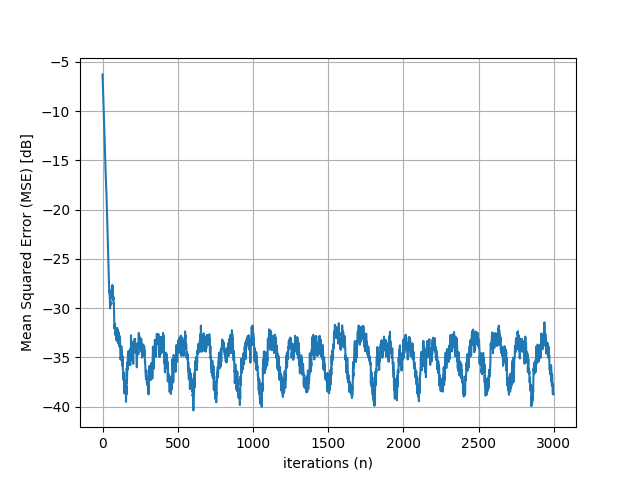
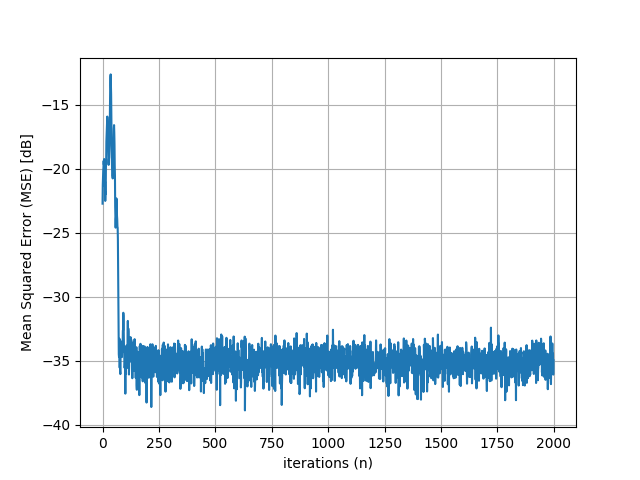
Linear Kernel ready, and adding a nonlinearity to the algorithm

diff --git a/KLMS.py b/KLMS.py
@@ -2,73 +2,73 @@ import numpy as np
 import math 
 import matplotlib.pyplot as plt
 import random as rand
-import kernel_methods as kernel 
+import kernel_methods as kernel #Oi patrick, vc deixou seu PC aberto, apaguei metade do seu codigo, bj.
 
-N = 3000 #numero de iteracoes
-R = 100 #numero de realizacoes
-mu = 1*10**(-3)#step-size
+N = 200000 #numero de iteracoes
+R = 10 #numero de realizacoes
+mu = 5*10**(-1)#step-size
 
-w1 = np.array([ [-0.0098],   [-0.0143],   [-0.0251],   [-0.0399],   [-0.0518],   [-0.0619],   [-0.0709],  [-0.0781],   [-0.0834],   [-0.0869],   [-0.0886],   [-0.0886],   [-0.0869],   [-0.0836], [-0.0789],   [-0.0729],   [-0.0657],   [-0.0576],   [-0.0488],   [-0.0394],   [-0.0297], [-0.0198],  [-0.0100],   [-0.0004],    [0.0088],    [0.0175],    [0.0254],    [0.0325], [0.0387],   [0.0439],    [0.0480],    [0.0510],    [0.0530],    [0.0538],    [0.0536], [0.0524],   [0.0503],   [0.0473],    [0.0435],    [0.0391],    [0.0341],    [0.0287], [0.0230],   [0.0172],   [ 0.0112],    [0.0053],   [-0.0004],  [-0.0059],   [-0.0110], [-0.0157],  [-0.0199],   [-0.0236],   [-0.0266],  [-0.0290],   [-0.0307],   [-0.0318], [-0.0322],  [-0.0320],  [-0.0312],   [-0.0299],   [-0.0280],   [-0.0257],   [-0.0231], [-0.0201],  [-0.0168],   [-0.0134],   [-0.0099],   [-0.0064],   [-0.0029],    [0.0005], [0.0037],   [0.0067],   [ 0.0095],    [0.0119],    [0.0140],    [0.0158],    [0.0171], [0.0181],   [0.0187],   [ 0.0190],    [0.0188],   [0.0183],    [0.0175 ],   [0.0164], [0.0150],   [0.0135],   [ 0.0117],   [ 0.0098],   [ 0.0078],   [0.0058],    [0.0037], [0.0017],   [-0.0003], [-0.0022],   [-0.0039],   [-0.0055],   [-0.0069],   [-0.0081], [-0.0091],  [-0.0099],  [-0.0105],   [-0.0108],   [-0.0109],   [-0.0109],   [-0.0106], [-0.0101],  [-0.0095], [-0.0087],   [-0.0078],   [-0.0068],   [-0.0057],   [-0.0045], [0.0034],  [-0.0022],  [-0.0010],   [ 0.0001],    [0.0012],   [0.0022],    [0.0031], [0.0039],   [0.0046],   [0.0051],   [ 0.0056],   [0.0059],    [0.0061],    [0.0062], [0.0062],   [0.0060],   [0.0057],   [ 0.0054],    [0.0049],    [0.0044],   [0.0039],[0.0033],   [0.0026],   [0.0020],    [0.0013],    [0.0007],    [0.0000],   [-0.0006], [-0.0011],  [-0.0016], [-0.0021],   [-0.0025],   [-0.0028],  [-0.0031],  [-0.0033], [-0.0034],  [-0.0034],  [-0.0034]])
-#w1 = np.array([[1], [2], [3]]) #just for test
+#w0 = np.array([ [-0.0098],   [-0.0143],   [-0.0251],   [-0.0399],   [-0.0518],   [-0.0619],   [-0.0709],  [-0.0781],   [-0.0834],   [-0.0869],   [-0.0886],   [-0.0886],   [-0.0869],   [-0.0836], [-0.0789],   [-0.0729],   [-0.0657],   [-0.0576],   [-0.0488],   [-0.0394],   [-0.0297], [-0.0198],  [-0.0100],   [-0.0004],    [0.0088],    [0.0175],    [0.0254],    [0.0325], [0.0387],   [0.0439],    [0.0480],    [0.0510],    [0.0530],    [0.0538],    [0.0536], [0.0524],   [0.0503],   [0.0473],    [0.0435],    [0.0391],    [0.0341],    [0.0287], [0.0230],   [0.0172],   [ 0.0112],    [0.0053],   [-0.0004],  [-0.0059],   [-0.0110], [-0.0157],  [-0.0199],   [-0.0236],   [-0.0266],  [-0.0290],   [-0.0307],   [-0.0318], [-0.0322],  [-0.0320],  [-0.0312],   [-0.0299],   [-0.0280],   [-0.0257],   [-0.0231], [-0.0201],  [-0.0168],   [-0.0134],   [-0.0099],   [-0.0064],   [-0.0029],    [0.0005], [0.0037],   [0.0067],   [ 0.0095],    [0.0119],    [0.0140],    [0.0158],    [0.0171], [0.0181],   [0.0187],   [ 0.0190],    [0.0188],   [0.0183],    [0.0175 ],   [0.0164], [0.0150],   [0.0135],   [ 0.0117],   [ 0.0098],   [ 0.0078],   [0.0058],    [0.0037], [0.0017],   [-0.0003], [-0.0022],   [-0.0039],   [-0.0055],   [-0.0069],   [-0.0081], [-0.0091],  [-0.0099],  [-0.0105],   [-0.0108],   [-0.0109],   [-0.0109],   [-0.0106], [-0.0101],  [-0.0095], [-0.0087],   [-0.0078],   [-0.0068],   [-0.0057],   [-0.0045], [0.0034],  [-0.0022],  [-0.0010],   [ 0.0001],    [0.0012],   [0.0022],    [0.0031], [0.0039],   [0.0046],   [0.0051],   [ 0.0056],   [0.0059],    [0.0061],    [0.0062], [0.0062],   [0.0060],   [0.0057],   [ 0.0054],    [0.0049],    [0.0044],   [0.0039],[0.0033],   [0.0026],   [0.0020],    [0.0013],    [0.0007],    [0.0000],   [-0.0006], [-0.0011],  [-0.0016], [-0.0021],   [-0.0025],   [-0.0028],  [-0.0031],  [-0.0033], [-0.0034],  [-0.0034],  [-0.0034]])
+w0 = np.array([[1], [-2], [3]]) #just for test
 #Diferente do codigo em matlab, aqui o w0 ja eh gerado como matriz coluna
 
 sigma_z = 1*10**(-3) #desvio padrao do ruido
-sigma_x = 1.0*10**(-1) #desvio padrão do sinal de entrada
+sigma_x = 1.0*10**(-0) #desvio padrão do sinal de entrada
 
 #Algoritmo adaptativo	
+p = len(w0)
 mse = np.zeros((N,1))
-Ew = np.zeros((len(w1), N))
+Ew = np.zeros((p, N))
+res = np.zeros((N))
 
-sigma = 0.5
+sigma = 0.5 #para o kernel Gaussiano
 
-v = 0
 aux = False
 
-u = np.zeros((len(w1),1))
-dictionary = np.zeros((len(w1),len(w1)))
-vet_input = np.zeros((len(w1), 1))
-coefficient_e = np.zeros((N))
+u = np.zeros((p,1))
+dictionary = np.zeros((p,p))
+
 
 for r in range(1,R):
 	e = np.zeros((N, 1))
-	w = np.zeros((len(w1), N))
-	
-	for i in range (0, len(w1)):
-		for j in range (0, len(w1)):
+	w = np.zeros((p, N))
+	for i in range (0, p):
+		for j in range (0, p):
 			dictionary[i,j] = sigma_x * np.random.rand()
-
 	if (aux == False):
-		for i in range (0, len(w1)):
-			vet_input[i] = sigma_x * np.random.rand()
-		
+		for i in range (0, p):
+			u[i] = sigma_x * np.random.rand()
 		aux = True
-	
 	for i in range(0, N-1):
-		vet_input[v] = sigma_x * np.random.rand()
-		u[v]  = kernel.Gaussian_K(dictionary[:, v], vet_input[v], sigma) 
-		d = np.dot( u.T, w1) + np.sqrt(sigma_z)*np.random.rand() #d esta saindo escalar
-		e[i] = d - np.dot(w[:,i],u)  # 'e' is shaped as (N, 1)
-		
-		if (v+1>=len(w1)):
-			w[:,i+1] = w[:,i] +  u[:,0] * e[i]  * mu
-			coefficient_e[i] = np.linalg.norm(w1[:] - w[:,i])/w1[v]
-			v = 0
-		elif (v<len(w1)):
-			w[:,i+1] = w[:,i] +  u[:,0] * e[i]  * mu
-			coefficient_e[i] = np.linalg.norm(w1[:] - w[:,i])/w1[v]
+		u = np.delete(u,p-1,axis=0)
+		aux3 = np.random.rand()*sigma_x
+		u = np.insert(u, 0, aux3, axis=0)
+		for v in range(0,p-1):
+			u[0] = kernel.Gaussian_K(dictionary[:, v], u[:], sigma)
 
-			v=v+1
+		d = np.dot( u.T, w0) + np.sqrt(sigma_z)*np.random.rand() #d esta saindo escalar
+		e[i] = d - np.dot(w[:,i].T,u)  # 'e' is shaped as (N, 1)
+		w[:,i+1] = w[:,i] +  u.T * e[i]  * mu
+
+		
+
+		print ("[{}]: {}".format(r,i)) 
+
 	mse = e[:]**2 + mse
-	Ew = w[:,range(0,N)] + Ew #w is shaped as (len(w0), 1)
+	Ew = w[:,range(0,N)] + Ew #w is shaped as (p, 1)
+	
+
+
 MSE = mse/R
 Ew = Ew/R
 
 
-print(coefficient_e)
+for i in range(0,N):
+	res[i] = np.linalg.norm(Ew[:, i] - w0.T)
 
 #Gera os graficos
 #MSE = MSE.reshape(N)
-plt.plot(coefficient_e)
+plt.plot(res)
 plt.xlabel('iterations(n)')
 plt.ylabel('Relative error')
 plt.grid(True)
@@ -81,8 +81,8 @@ plt.xlabel('iterations (n)')
 plt.grid(True)
 plt.figure()
 
-for i in range (len(w1)):
-	plt.plot ( Ew[i,:])
+for i in range (len(w0)):
+	plt.plot (Ew[i,:])
 plt.ylabel('E\{\bf w}\}')
 plt.xlabel('iterations (n)')
 plt.grid(True)

diff --git a/KNLMS.py b/KNLMS.py
@@ -8,8 +8,8 @@ N = 40000 #numero de iteracoes
 R = 300 #numero de realizacoes
 mu = 5*10**(-3)#step-size
 
-w1 = np.array([[-0.0098],   [-0.0143],   [-0.0251],   [-0.0399],   [-0.0518],   [-0.0619],   [-0.0709],  [-0.0781],   [-0.0834],   [-0.0869],   [-0.0886],   [-0.0886],   [-0.0869],   [-0.0836], [-0.0789],   [-0.0729],   [-0.0657],   [-0.0576],   [-0.0488],   [-0.0394],   [-0.0297], [-0.0198],  [-0.0100],   [-0.0004],    [0.0088],    [0.0175],    [0.0254],    [0.0325], [0.0387],   [0.0439],    [0.0480],    [0.0510],    [0.0530],    [0.0538],    [0.0536], [0.0524],   [0.0503],   [0.0473],    [0.0435],    [0.0391],    [0.0341],    [0.0287], [0.0230],   [0.0172],   [ 0.0112],    [0.0053],   [-0.0004],  [-0.0059],   [-0.0110], [-0.0157],  [-0.0199],   [-0.0236],   [-0.0266],  [-0.0290],   [-0.0307],   [-0.0318], [-0.0322],  [-0.0320],  [-0.0312],   [-0.0299],   [-0.0280],   [-0.0257],   [-0.0231], [-0.0201],  [-0.0168],   [-0.0134],   [-0.0099],   [-0.0064],   [-0.0029],    [0.0005], [0.0037],   [0.0067],   [ 0.0095],    [0.0119],    [0.0140],    [0.0158],    [0.0171], [0.0181],   [0.0187],   [ 0.0190],    [0.0188],   [0.0183],    [0.0175 ],   [0.0164], [0.0150],   [0.0135],   [ 0.0117],   [ 0.0098],   [ 0.0078],   [0.0058],    [0.0037], [0.0017],   [-0.0003], [-0.0022],   [-0.0039],   [-0.0055],   [-0.0069],   [-0.0081], [-0.0091],  [-0.0099],  [-0.0105],   [-0.0108],   [-0.0109],   [-0.0109],   [-0.0106], [-0.0101],  [-0.0095], [-0.0087],   [-0.0078],   [-0.0068],   [-0.0057],   [-0.0045], [0.0034],  [-0.0022],  [-0.0010],   [ 0.0001],    [0.0012],   [0.0022],    [0.0031], [0.0039],   [0.0046],   [0.0051],   [ 0.0056],   [0.0059],    [0.0061],    [0.0062], [0.0062],   [0.0060],   [0.0057],   [ 0.0054],    [0.0049],    [0.0044],   [0.0039],[0.0033],   [0.0026],   [0.0020],    [0.0013],    [0.0007],    [0.0000],   [-0.0006], [-0.0011],  [-0.0016], [-0.0021],   [-0.0025],   [-0.0028],  [-0.0031],  [-0.0033], [-0.0034],  [-0.0034],  [-0.0034]])
-#w1 = np.array([[1], [2], [3]]) #just for test
+w0 = np.array([[-0.0098],   [-0.0143],   [-0.0251],   [-0.0399],   [-0.0518],   [-0.0619],   [-0.0709],  [-0.0781],   [-0.0834],   [-0.0869],   [-0.0886],   [-0.0886],   [-0.0869],   [-0.0836], [-0.0789],   [-0.0729],   [-0.0657],   [-0.0576],   [-0.0488],   [-0.0394],   [-0.0297], [-0.0198],  [-0.0100],   [-0.0004],    [0.0088],    [0.0175],    [0.0254],    [0.0325], [0.0387],   [0.0439],    [0.0480],    [0.0510],    [0.0530],    [0.0538],    [0.0536], [0.0524],   [0.0503],   [0.0473],    [0.0435],    [0.0391],    [0.0341],    [0.0287], [0.0230],   [0.0172],   [ 0.0112],    [0.0053],   [-0.0004],  [-0.0059],   [-0.0110], [-0.0157],  [-0.0199],   [-0.0236],   [-0.0266],  [-0.0290],   [-0.0307],   [-0.0318], [-0.0322],  [-0.0320],  [-0.0312],   [-0.0299],   [-0.0280],   [-0.0257],   [-0.0231], [-0.0201],  [-0.0168],   [-0.0134],   [-0.0099],   [-0.0064],   [-0.0029],    [0.0005], [0.0037],   [0.0067],   [ 0.0095],    [0.0119],    [0.0140],    [0.0158],    [0.0171], [0.0181],   [0.0187],   [ 0.0190],    [0.0188],   [0.0183],    [0.0175 ],   [0.0164], [0.0150],   [0.0135],   [ 0.0117],   [ 0.0098],   [ 0.0078],   [0.0058],    [0.0037], [0.0017],   [-0.0003], [-0.0022],   [-0.0039],   [-0.0055],   [-0.0069],   [-0.0081], [-0.0091],  [-0.0099],  [-0.0105],   [-0.0108],   [-0.0109],   [-0.0109],   [-0.0106], [-0.0101],  [-0.0095], [-0.0087],   [-0.0078],   [-0.0068],   [-0.0057],   [-0.0045], [0.0034],  [-0.0022],  [-0.0010],   [ 0.0001],    [0.0012],   [0.0022],    [0.0031], [0.0039],   [0.0046],   [0.0051],   [ 0.0056],   [0.0059],    [0.0061],    [0.0062], [0.0062],   [0.0060],   [0.0057],   [ 0.0054],    [0.0049],    [0.0044],   [0.0039],[0.0033],   [0.0026],   [0.0020],    [0.0013],    [0.0007],    [0.0000],   [-0.0006], [-0.0011],  [-0.0016], [-0.0021],   [-0.0025],   [-0.0028],  [-0.0031],  [-0.0033], [-0.0034],  [-0.0034],  [-0.0034]])
+#w0 = np.array([[1], [2], [3]]) #just for test
 #Diferente do codigo em matlab, aqui o w0 ja eh gerado como matriz coluna
 
 
@@ -18,29 +18,29 @@ sigma_x = 1.0 #	desvio padrão do sinal de entrada
 
 #Algoritmo adaptativo
 mse = np.zeros((N,1))
-Ew = np.zeros((len(w1), N))
+Ew = np.zeros((len(w0), N))
 
 sigma = 0.5
 
 v = 0
 aux = False
 
-u = np.zeros((len(w1),1))
-dictionary = np.zeros((len(w1),len(w1)))
-vet_input = np.zeros((len(w1), 1))
+u = np.zeros((len(w0),1))
+dictionary = np.zeros((len(w0),len(w0)))
+vet_input = np.zeros((len(w0), 1))
 
 for r in range(1,R):
 	e = np.zeros((N, 1))
-	w = np.zeros((len(w1), N))
+	w = np.zeros((len(w0), N))
 	
-	for i in range (0, len(w1)):
-		for j in range (0, len(w1)):
+	for i in range (0, len(w0)):
+		for j in range (0, len(w0)):
 			dictionary[i,j] = sigma_x * np.random.rand()
 	
 	
 
 	if (aux == False):
-		for i in range (0, len(w1)):
+		for i in range (0, len(w0)):
 			vet_input[i] = sigma_x * np.random.rand()
 		
 		aux = True
@@ -48,7 +48,7 @@ for r in range(1,R):
 	for i in range(0, N-1):
 		vet_input[v] = sigma_x * np.random.rand()
 		u[v]  = kernel.Gaussian_K(dictionary[:, v], vet_input[v], sigma) 
-		d = np.dot( u.T, w1) + np.sqrt(sigma_z)*np.random.rand() #d esta saindo escalar
+		d = np.dot( u.T, w0) + np.sqrt(sigma_z)*np.random.rand() #d esta saindo escalar
 		e[i] = d - np.dot(w[:,i],u)  # 'e' is shaped as (2000, 1)
 		
 		if (v+1>=len(u)):
@@ -73,7 +73,7 @@ plt.xlabel('iterations (n)')
 plt.grid(True)
 plt.figure()
 
-for i in range (len(w1)):
+for i in range (len(w0)):
 	plt.plot ( Ew[i,:])
 plt.ylabel('E\{\bf w}\}')
 plt.xlabel('iterations (n)')

diff --git a/LMS.py b/LMS.py
@@ -3,56 +3,64 @@ import math
 import matplotlib.pyplot as plt
 import random as rand
 
-N = 10000 #numero de iteracoes
-R = 10 #numero de realizacoes
-mu = 0.1*10**(-2) #step-size
+N = 200000 #numero de iteracoes
+R = 100 #numero de realizacoes
+mu =5*10**(-2) #step-size
 
+#w0 = np.array([[1],[-2],[3]])
 w0 = np.array([[-0.0098],   [-0.0143],   [-0.0251],   [-0.0399],   [-0.0518],   [-0.0619],   [-0.0709],  [-0.0781],   [-0.0834],   [-0.0869],   [-0.0886],   [-0.0886],   [-0.0869],   [-0.0836], [-0.0789],   [-0.0729],   [-0.0657],   [-0.0576],   [-0.0488],   [-0.0394],   [-0.0297], [-0.0198],  [-0.0100],   [-0.0004],    [0.0088],    [0.0175],    [0.0254],    [0.0325], [0.0387],   [0.0439],    [0.0480],    [0.0510],    [0.0530],    [0.0538],    [0.0536], [0.0524],   [0.0503],   [0.0473],    [0.0435],    [0.0391],    [0.0341],    [0.0287], [0.0230],   [0.0172],   [ 0.0112],    [0.0053],   [-0.0004],  [-0.0059],   [-0.0110], [-0.0157],  [-0.0199],   [-0.0236],   [-0.0266],  [-0.0290],   [-0.0307],   [-0.0318], [-0.0322],  [-0.0320],  [-0.0312],   [-0.0299],   [-0.0280],   [-0.0257],   [-0.0231], [-0.0201],  [-0.0168],   [-0.0134],   [-0.0099],   [-0.0064],   [-0.0029],    [0.0005], [0.0037],   [0.0067],   [ 0.0095],    [0.0119],    [0.0140],    [0.0158],    [0.0171], [0.0181],   [0.0187],   [ 0.0190],    [0.0188],   [0.0183],    [0.0175 ],   [0.0164], [0.0150],   [0.0135],   [ 0.0117],   [ 0.0098],   [ 0.0078],   [0.0058],    [0.0037], [0.0017],   [-0.0003], [-0.0022],   [-0.0039],   [-0.0055],   [-0.0069],   [-0.0081], [-0.0091],  [-0.0099],  [-0.0105],   [-0.0108],   [-0.0109],   [-0.0109],   [-0.0106], [-0.0101],  [-0.0095], [-0.0087],   [-0.0078],   [-0.0068],   [-0.0057],   [-0.0045], [0.0034],  [-0.0022],  [-0.0010],   [ 0.0001],    [0.0012],   [0.0022],    [0.0031], [0.0039],   [0.0046],   [0.0051],   [ 0.0056],   [0.0059],    [0.0061],    [0.0062], [0.0062],   [0.0060],   [0.0057],   [ 0.0054],    [0.0049],    [0.0044],   [0.0039],[0.0033],   [0.0026],   [0.0020],    [0.0013],    [0.0007],    [0.0000],   [-0.0006], [-0.0011],  [-0.0016], [-0.0021],   [-0.0025],   [-0.0028],  [-0.0031],  [-0.0033], [-0.0034],  [-0.0034],  [-0.0034]])
 #w0 =  np.array([[ 1],[-2], [-0.1], [0.2], [math.pi], [math.exp(-2.6)], [-math.sqrt(3)]])
 #Diferente do codigo em matlab, aqui o w0 ja eh gerado como matriz coluna
 
 #Estatistica do sinal de entrada
-sigma_z = 1*10**(-3) #desvio padrao do ruido
-sigma_x = 1.0 #desvio padrao do sinal de entrada
+sigma_z = 1.0*10**(-3) #desvio padrao do ruido
+sigma_x = 1.0*10**(-1) #desvio padrao do sinal de entrada
 
 #algoritmo adaptativo
+p = len(w0)
 mse = np.zeros((N,1))
-Ew = np.zeros((len(w0), N))
+Ew = np.zeros((p, N))
+res = np.zeros((N))
 
 verf = False
+v = 0
+
 for r in range(1,R):
 	e = np.zeros((N, 1))
-	x = np.zeros((len(w0),1))
-	w = np.zeros((len(w0), N))
+	w = np.zeros((p, N))
+	u = np.zeros((p,1))
 	if (verf == False):
-		for i in range(0,len(w0)):
-			x[i] = sigma_x * np.random.rand()
+		for i in range(0,p):
+			u[i] = sigma_x * np.random.rand()
 		verf = True
-	v = 0
 	for i in range(0, N-1):
-		if (v+1>=len(w0)):
-			x[v] = sigma_x * np.random.rand() 
-		elif (v<len(w0)):
-			x[v] = sigma_x * np.random.rand()
-		
-		d = np.dot( x.T, w0) + sigma_z*np.random.rand() #d esta saindo escalar
-		
-		e[i] = d - np.dot(w[:,i],x)  # 'e' is shaped as (2000, 1)
+		u = np.delete(u,p-1,axis=0)
+		aux = np.random.rand()*sigma_x
+		u = np.insert(u,0,aux, axis=0)
+		d = np.dot( u.T, w0) + sigma_z*np.random.rand() #d esta saindo escalar
+		e[i] = d - np.dot(w[:,i].T,u)  # 'e' is shaped as (2000, 1)
+		w[:,i+1] = w[:,i] + u.T * e[i] *  mu
 
-		if (v+1>=len(w0)):
-			w[:,i+1] = w[:,i] + e[i] * x[:,0] * mu
-			v = 0
-		elif (v<len(w0)):
-			w[:,i+1] = w[:,i] + e[i] * x[:,0] * mu
-			v=v+1
-
+	
 	mse = e[:]**2 + mse
 	Ew = w[:,range(0,N)] + Ew #w is shaped as (len(w0), 1)
 
-MSE = mse/r
-Ew = Ew/r
+MSE = mse/R
+Ew = Ew/R
+
+
+
+for i in range(0,N):
+	res[i] = np.linalg.norm(Ew[:, i] - w0.T)
+
 
 #Gerar graficos
+
+plt.plot(res)
+plt.xlabel('iterations(n)')
+plt.ylabel('Relative error')
+plt.grid(True)
+plt.figure()
 
 MSE = MSE.reshape(N)
 MSE=10*np.log10(MSE)
@@ -65,6 +73,7 @@ plt.figure()
 for i in range (len(w0)):
 	plt.plot ( Ew[i,:])
 plt.ylabel('E\{{\bf w}\} LMS')
+
 plt.xlabel('iterations (n)')
 plt.legend(loc="upper left")
 plt.grid(True)

diff --git a/NLMS.py b/NLMS.py
@@ -9,11 +9,11 @@ mu = 0.1*10**(-2)#step-size
 
 w3 = np.array ([[0.9], [0.2], [0.5], [-0.7]])
 w2 = np.array ([[0.001], [0.01], [0.1], [0.5]])
-w1 = np.array([[-0.0098],   [-0.0143],   [-0.0251],   [-0.0399],   [-0.0518],   [-0.0619],   [-0.0709],  [-0.0781],   [-0.0834],   [-0.0869],   [-0.0886],   [-0.0886],   [-0.0869],   [-0.0836], [-0.0789],   [-0.0729],   [-0.0657],   [-0.0576],   [-0.0488],   [-0.0394],   [-0.0297], [-0.0198],  [-0.0100],   [-0.0004],    [0.0088],    [0.0175],    [0.0254],    [0.0325], [0.0387],   [0.0439],    [0.0480],    [0.0510],    [0.0530],    [0.0538],    [0.0536], [0.0524],   [0.0503],   [0.0473],    [0.0435],    [0.0391],    [0.0341],    [0.0287], [0.0230],   [0.0172],   [ 0.0112],    [0.0053],   [-0.0004],  [-0.0059],   [-0.0110], [-0.0157],  [-0.0199],   [-0.0236],   [-0.0266],  [-0.0290],   [-0.0307],   [-0.0318], [-0.0322],  [-0.0320],  [-0.0312],   [-0.0299],   [-0.0280],   [-0.0257],   [-0.0231], [-0.0201],  [-0.0168],   [-0.0134],   [-0.0099],   [-0.0064],   [-0.0029],    [0.0005], [0.0037],   [0.0067],   [ 0.0095],    [0.0119],    [0.0140],    [0.0158],    [0.0171], [0.0181],   [0.0187],   [ 0.0190],    [0.0188],   [0.0183],    [0.0175 ],   [0.0164], [0.0150],   [0.0135],   [ 0.0117],   [ 0.0098],   [ 0.0078],   [0.0058],    [0.0037], [0.0017],   [-0.0003], [-0.0022],   [-0.0039],   [-0.0055],   [-0.0069],   [-0.0081], [-0.0091],  [-0.0099],  [-0.0105],   [-0.0108],   [-0.0109],   [-0.0109],   [-0.0106], [-0.0101],  [-0.0095], [-0.0087],   [-0.0078],   [-0.0068],   [-0.0057],   [-0.0045], [0.0034],  [-0.0022],  [-0.0010],   [ 0.0001],    [0.0012],   [0.0022],    [0.0031], [0.0039],   [0.0046],   [0.0051],   [ 0.0056],   [0.0059],    [0.0061],    [0.0062], [0.0062],   [0.0060],   [0.0057],   [ 0.0054],    [0.0049],    [0.0044],   [0.0039],[0.0033],   [0.0026],   [0.0020],    [0.0013],    [0.0007],    [0.0000],   [-0.0006], [-0.0011],  [-0.0016], [-0.0021],   [-0.0025],   [-0.0028],  [-0.0031],  [-0.0033], [-0.0034],  [-0.0034],  [-0.0034]])
+w0 = np.array([[-0.0098],   [-0.0143],   [-0.0251],   [-0.0399],   [-0.0518],   [-0.0619],   [-0.0709],  [-0.0781],   [-0.0834],   [-0.0869],   [-0.0886],   [-0.0886],   [-0.0869],   [-0.0836], [-0.0789],   [-0.0729],   [-0.0657],   [-0.0576],   [-0.0488],   [-0.0394],   [-0.0297], [-0.0198],  [-0.0100],   [-0.0004],    [0.0088],    [0.0175],    [0.0254],    [0.0325], [0.0387],   [0.0439],    [0.0480],    [0.0510],    [0.0530],    [0.0538],    [0.0536], [0.0524],   [0.0503],   [0.0473],    [0.0435],    [0.0391],    [0.0341],    [0.0287], [0.0230],   [0.0172],   [ 0.0112],    [0.0053],   [-0.0004],  [-0.0059],   [-0.0110], [-0.0157],  [-0.0199],   [-0.0236],   [-0.0266],  [-0.0290],   [-0.0307],   [-0.0318], [-0.0322],  [-0.0320],  [-0.0312],   [-0.0299],   [-0.0280],   [-0.0257],   [-0.0231], [-0.0201],  [-0.0168],   [-0.0134],   [-0.0099],   [-0.0064],   [-0.0029],    [0.0005], [0.0037],   [0.0067],   [ 0.0095],    [0.0119],    [0.0140],    [0.0158],    [0.0171], [0.0181],   [0.0187],   [ 0.0190],    [0.0188],   [0.0183],    [0.0175 ],   [0.0164], [0.0150],   [0.0135],   [ 0.0117],   [ 0.0098],   [ 0.0078],   [0.0058],    [0.0037], [0.0017],   [-0.0003], [-0.0022],   [-0.0039],   [-0.0055],   [-0.0069],   [-0.0081], [-0.0091],  [-0.0099],  [-0.0105],   [-0.0108],   [-0.0109],   [-0.0109],   [-0.0106], [-0.0101],  [-0.0095], [-0.0087],   [-0.0078],   [-0.0068],   [-0.0057],   [-0.0045], [0.0034],  [-0.0022],  [-0.0010],   [ 0.0001],    [0.0012],   [0.0022],    [0.0031], [0.0039],   [0.0046],   [0.0051],   [ 0.0056],   [0.0059],    [0.0061],    [0.0062], [0.0062],   [0.0060],   [0.0057],   [ 0.0054],    [0.0049],    [0.0044],   [0.0039],[0.0033],   [0.0026],   [0.0020],    [0.0013],    [0.0007],    [0.0000],   [-0.0006], [-0.0011],  [-0.0016], [-0.0021],   [-0.0025],   [-0.0028],  [-0.0031],  [-0.0033], [-0.0034],  [-0.0034],  [-0.0034]])
 w0 =  np.array([[ 1],[-2], [-0.1], [0.2], [math.pi], [math.exp(-2.6)], [-math.sqrt(3)]])
 #Diferente do codigo em matlab, aqui o w0 ja eh gerado como matriz coluna
 
-sample = w1
+sample = w0
 
 sigma_z = 1*10**(-3) #desvio padrao do ruido
 sigma_x = 1*10 **(-1) #	desvio padrão do sinal de entrada

diff --git a/kernel_methods.py b/kernel_methods.py
@@ -1,10 +1,14 @@
 import numpy as np
 e = 2.718281828459045235360287
 def Linear_K( x, y, c):
-    #x and y are the vector, while c is the constant
-    #k(x,y)=x^T.y + c
-   result = y.T * x  + c
-   return result
+   #x and y are the vector, while c is the constant
+   x = np.reshape(x,(1,len(x)))
+   y = np.reshape(y,(1,len(y)))
+   result = np.dot(x, y.T)  + c
+   result2 = np.dot(x, x.T) + c
+   result3 = np.dot(y, y.T) + c
+   resultf = result / (result2*result3 * 0.5)
+   return resultf
 
 def Polynomial_K(x, y, a, c, d):
     #a stands for alfa and 'd' the degree

diff --git a/teste.py b/teste.py
@@ -1,0 +1,7 @@
+import numpy as np
+a = np.zeros((5,1))
+print (a)
+for i in range (0, 10):
+    a = np.delete(a,4, axis=0)
+    a = np.insert(a,0,np.random.rand(), axis=0)
+    print (a[0])
